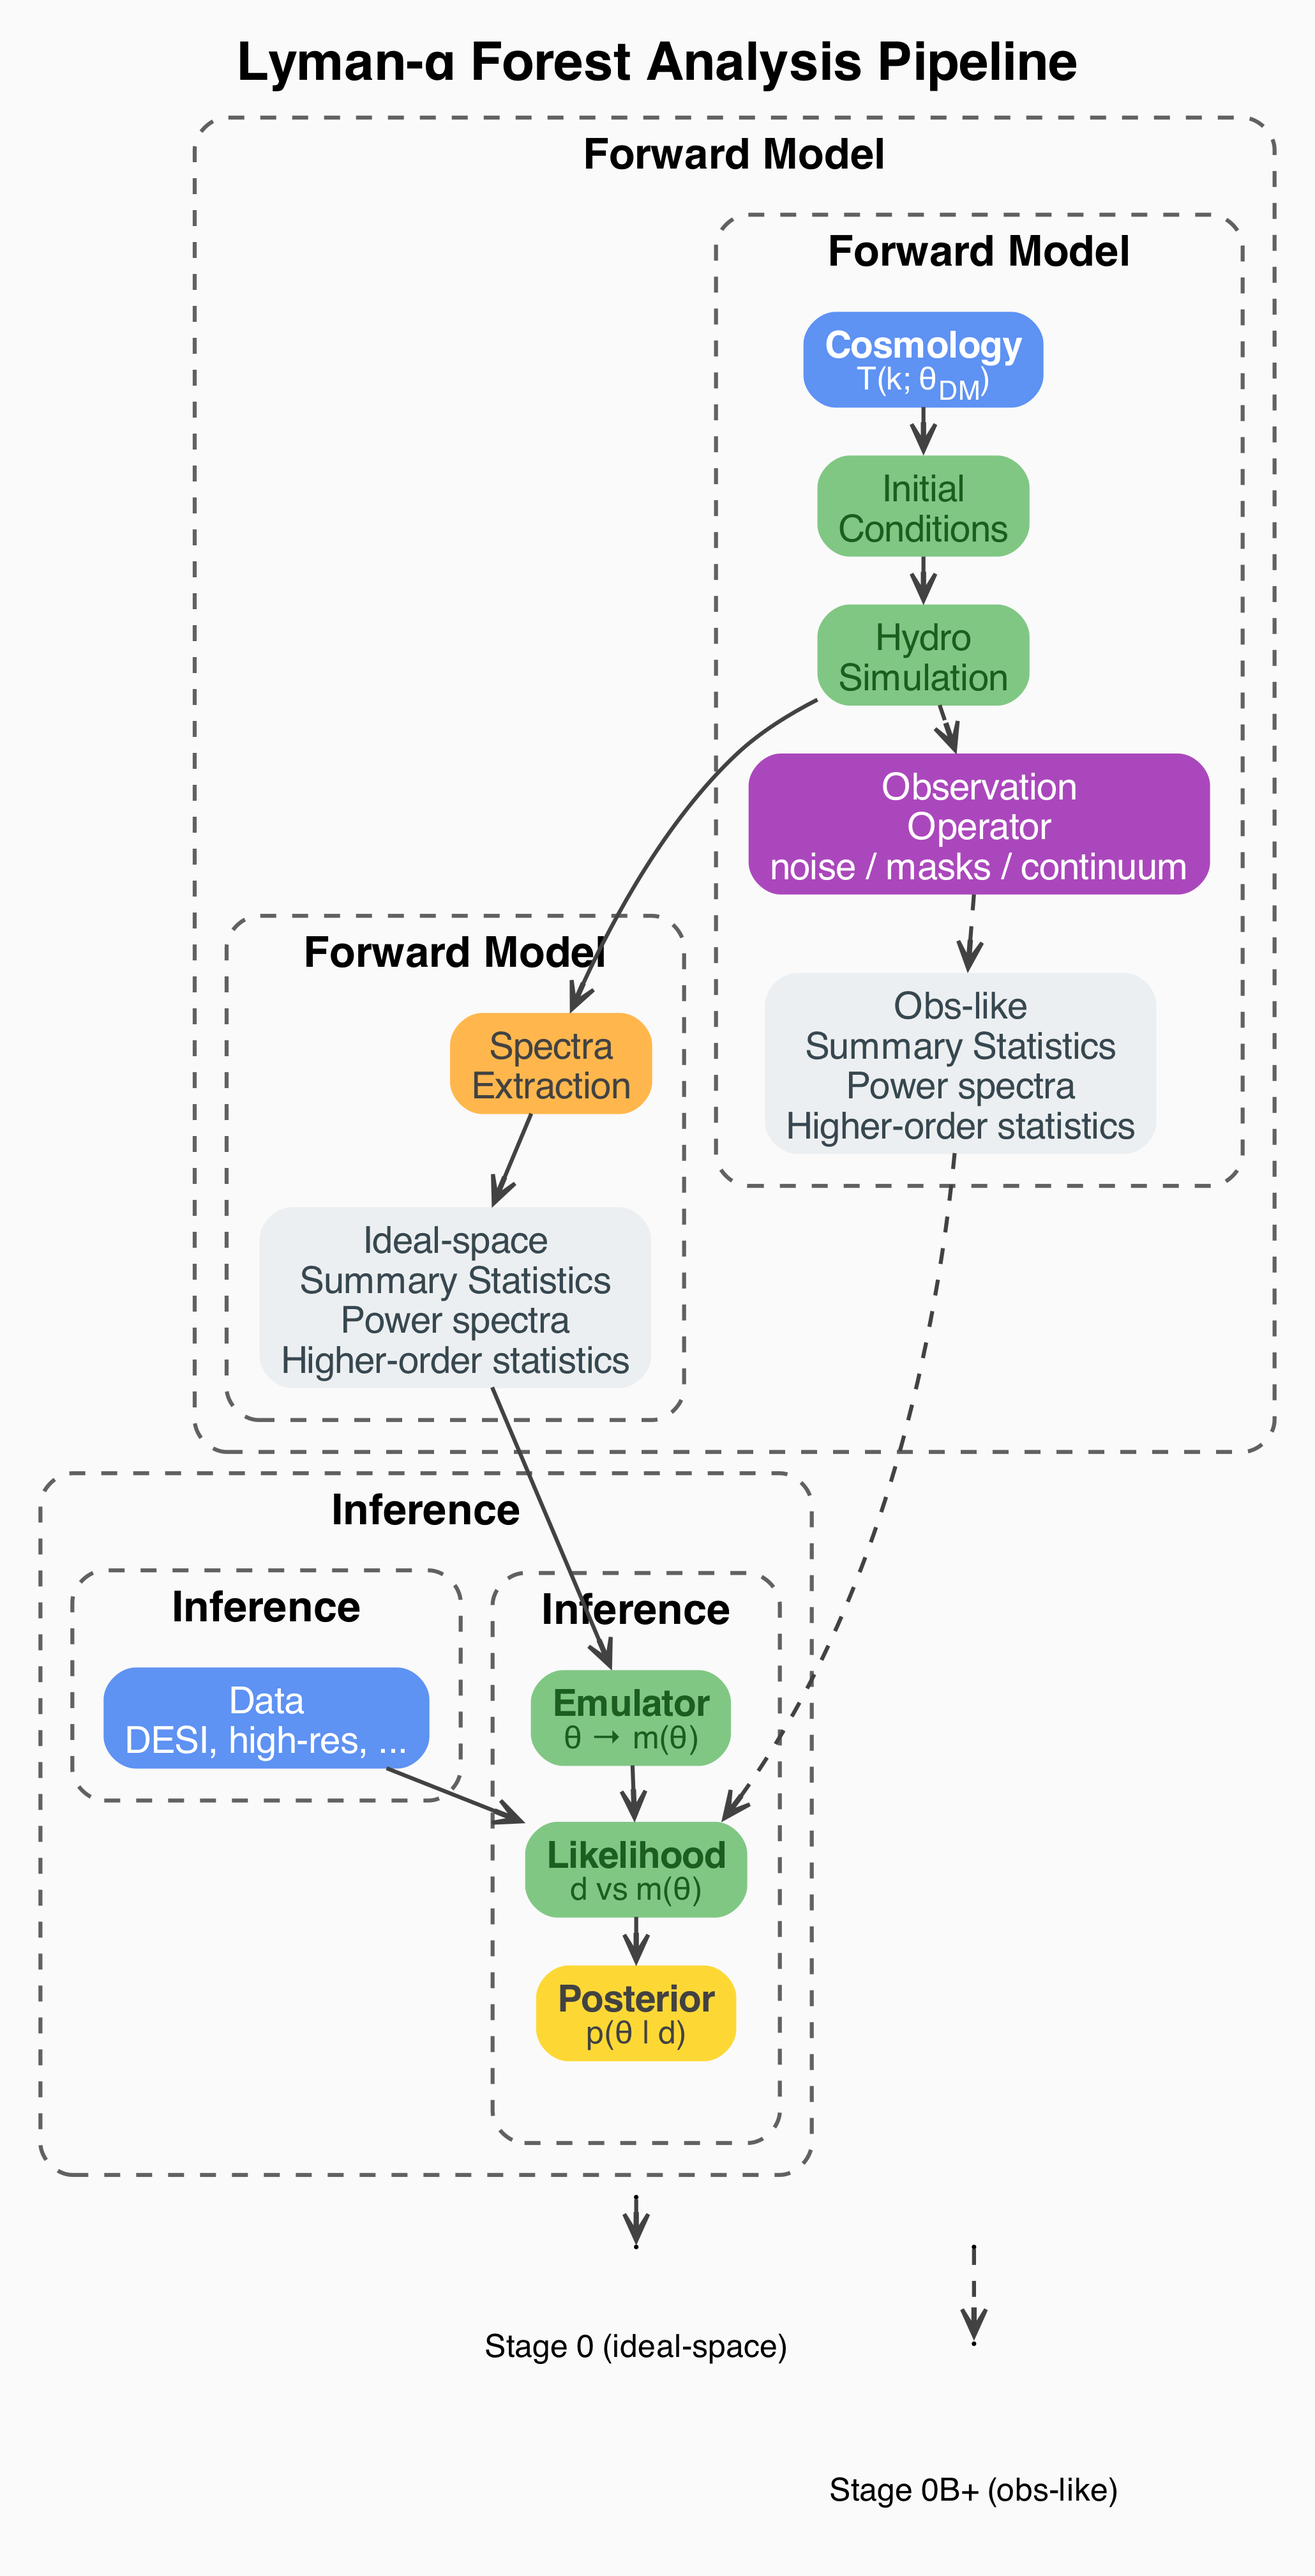
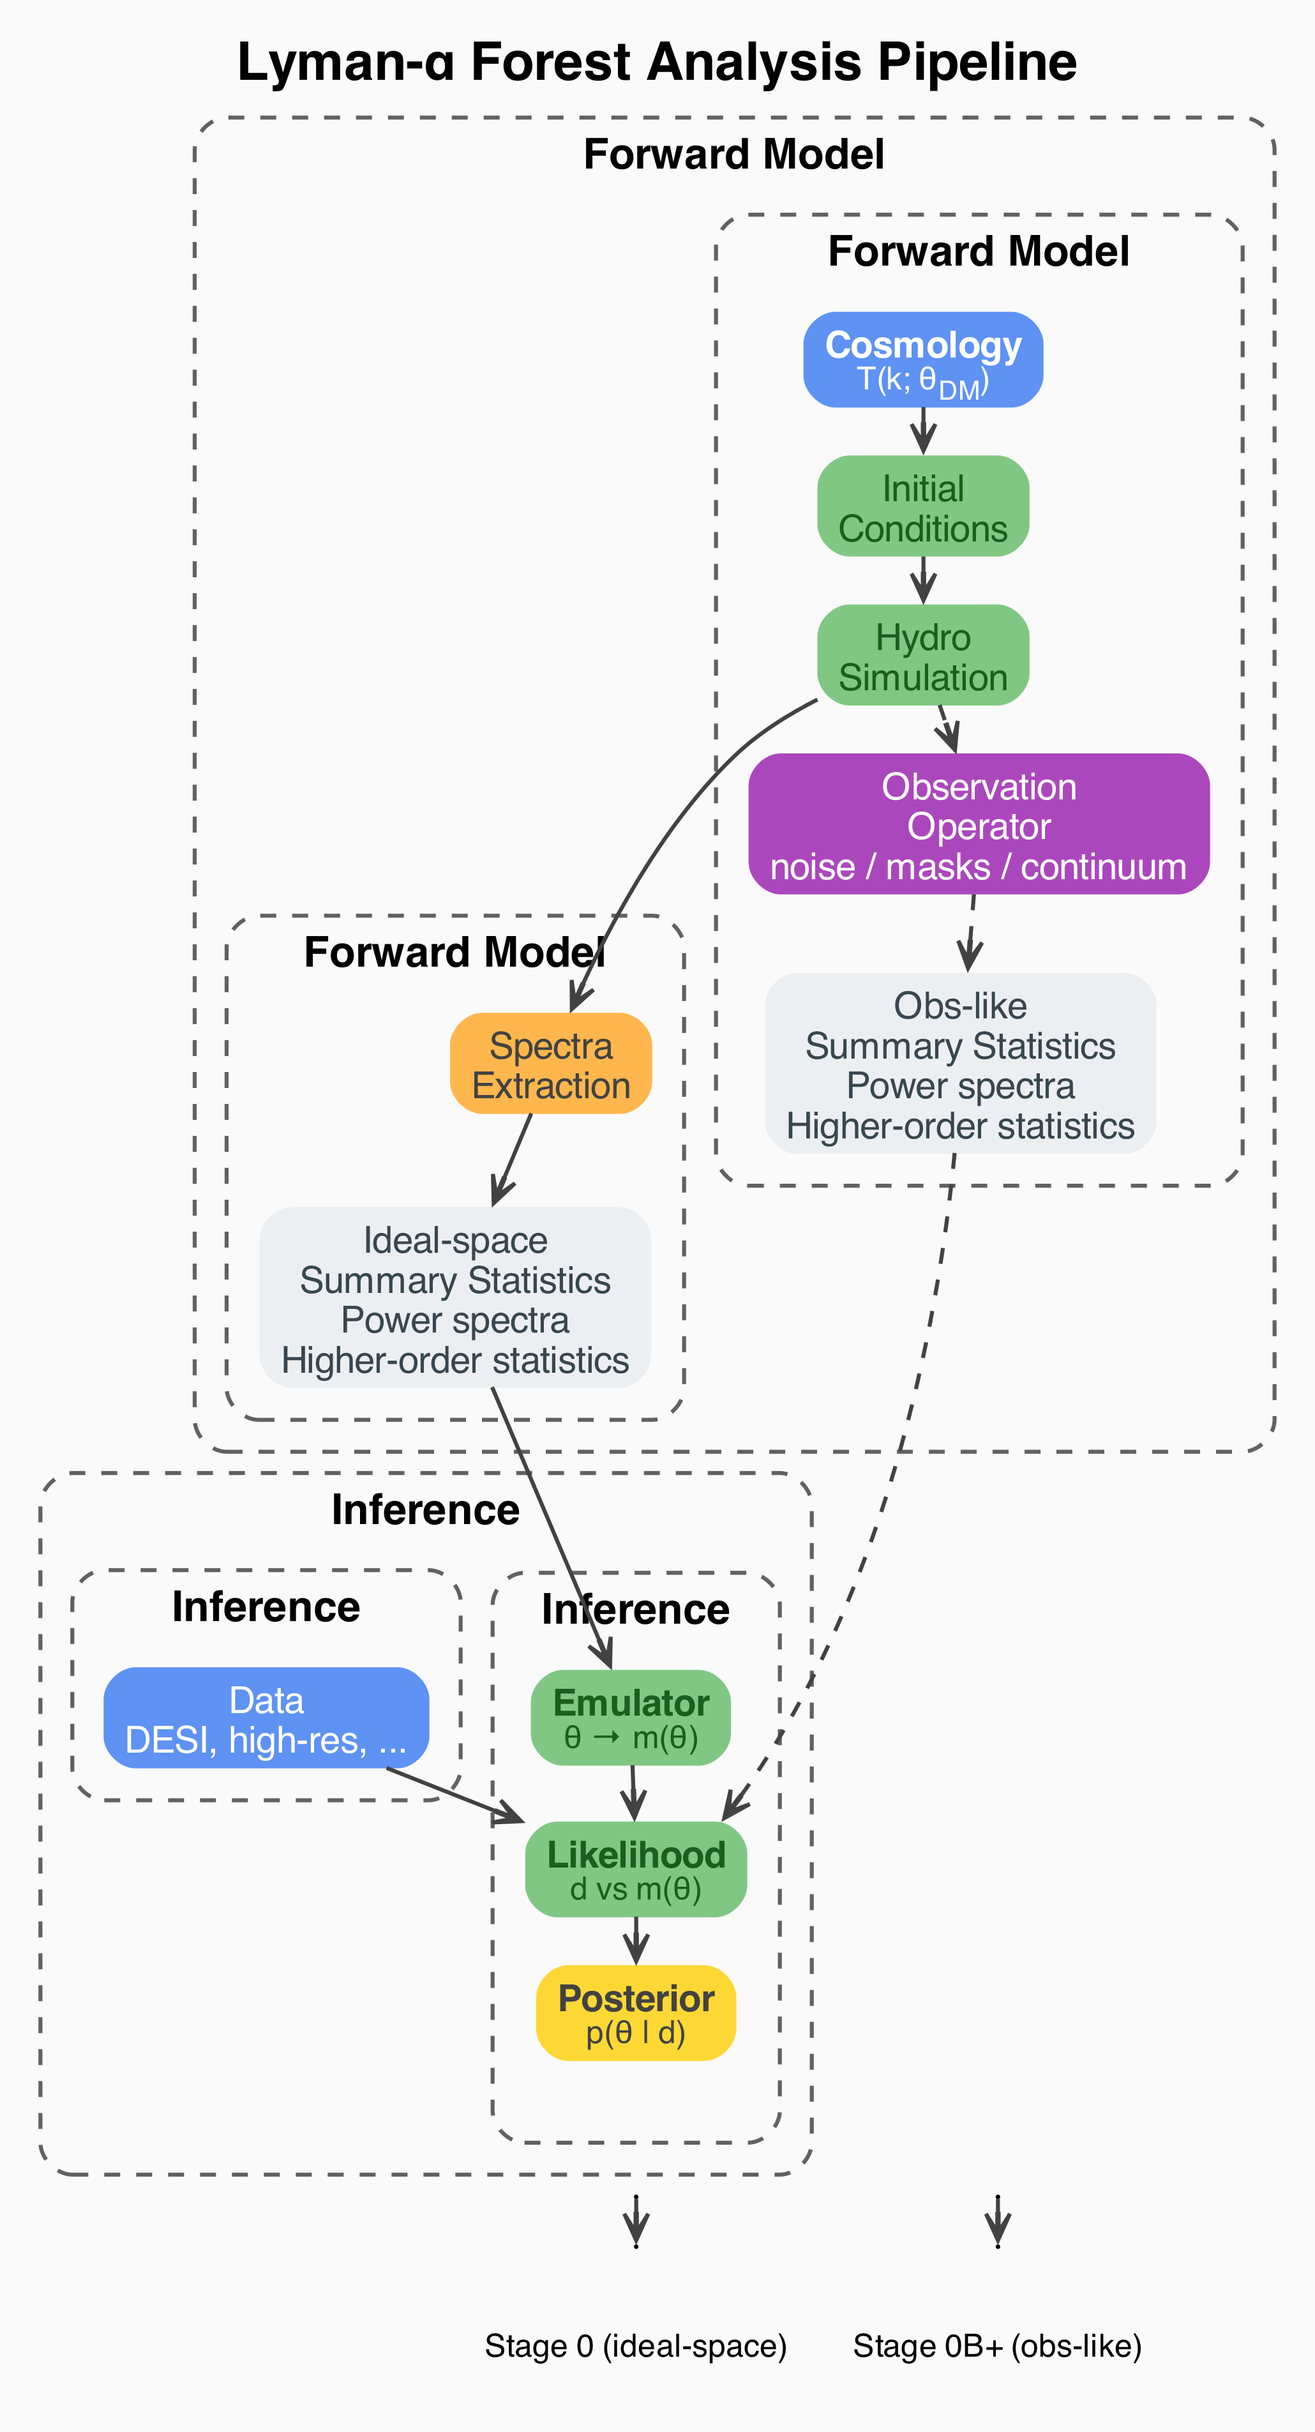
lya flowchart

diff --git a/documentation/flowchart.py b/documentation/flowchart.py
@@ -587,6 +587,8 @@ def power_spectrum_agent_internals():
 
 from graphviz import Digraph
 
+from graphviz import Digraph
+
 def lya_flowchart():
     dot = Digraph('Lya_Workflow')
     dot.attr(rankdir='TB',
@@ -735,9 +737,10 @@ def lya_flowchart():
     dot.edge('l1b', 'l1t', style='invis', minlen='1')
 
     # stack rows tightly
-    dot.edge('l0t', 'l1t', style='invis', weight='1', minlen='1')
+    # dot.edge('l0t', 'l1t', style='invis', weight='1', minlen='1')
 
     return dot
+
 
 if __name__ == '__main__':
     print("Generating professional flowcharts with improved text size and spacing...")
